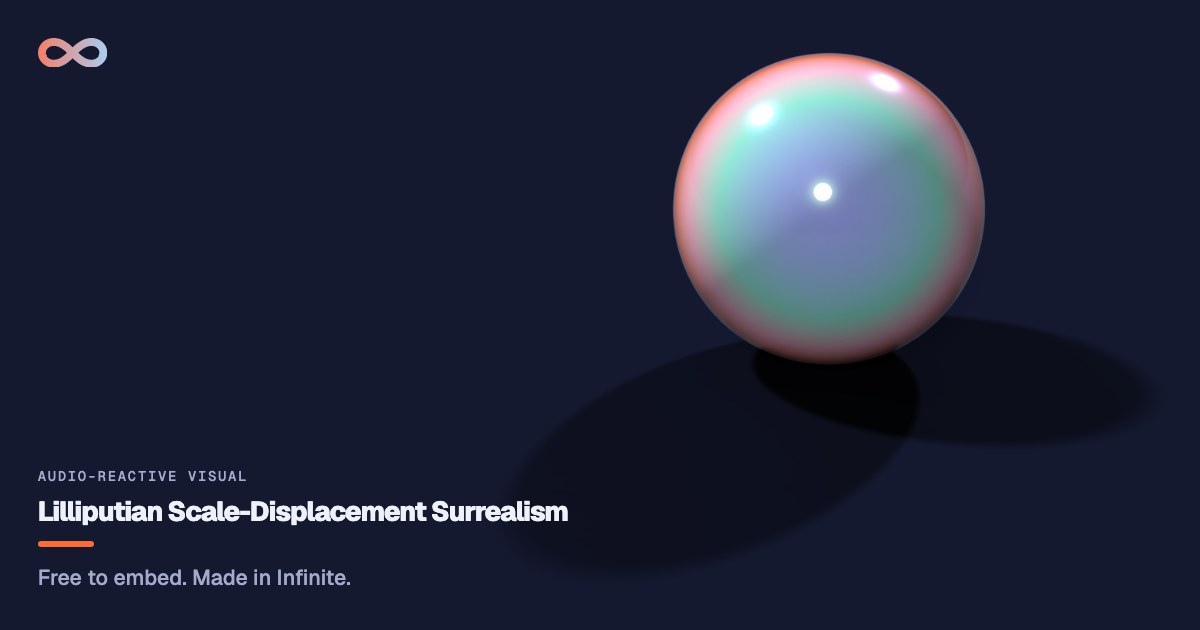
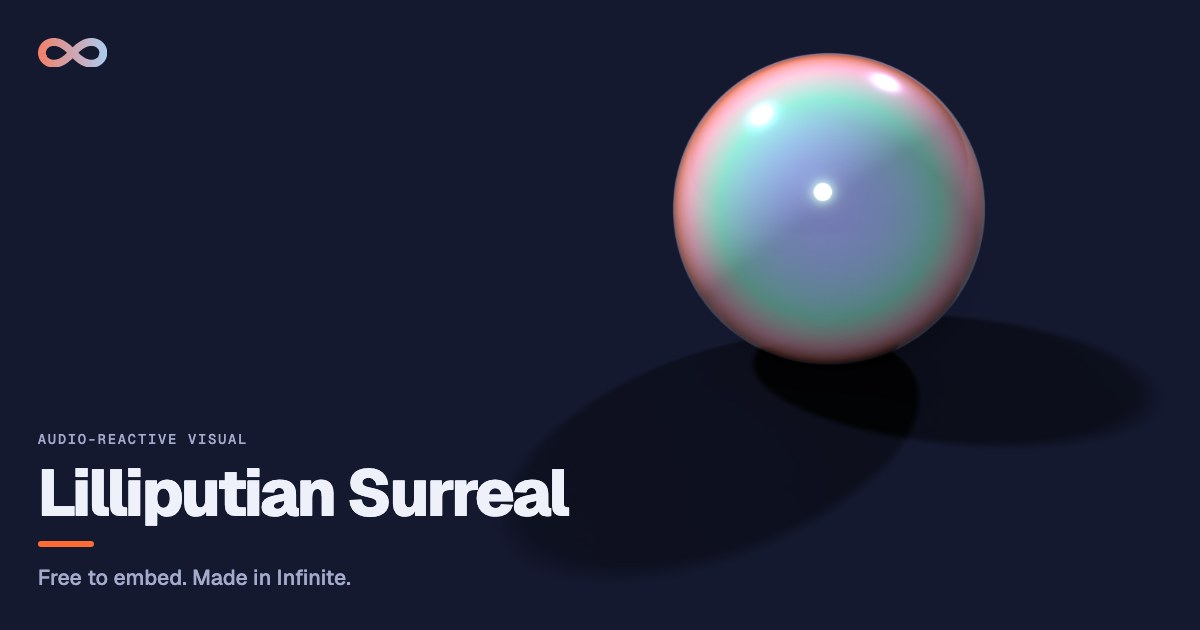
website: update og card previews for new embeds and pages

Changed region(s): [[0.0308, 0.6937, 0.4933, 0.8444]]

diff --git a/website/blog/index.html b/website/blog/index.html
@@ -18,14 +18,14 @@
   <link rel="canonical" href="https://infinitedevices.org/blog/">
   <meta property="og:title" content="Infinite blog: audio-reactive visuals, music and code">
   <meta property="og:description" content="Notes on building and using Infinite, the free open-source DAW for visuals, music and code on one canvas. Tutorials, engineering write-ups and ideas.">
-  <meta property="og:image" content="https://infinitedevices.org/assets/og-image.jpg">
+  <meta property="og:image" content="https://infinitedevices.org/assets/og/blog.jpg">
   <meta property="og:url" content="https://infinitedevices.org/blog/">
   <meta property="og:type" content="website">
   <meta property="og:site_name" content="Infinite">
   <meta name="twitter:card" content="summary_large_image">
   <meta name="twitter:title" content="Infinite blog: audio-reactive visuals, music and code">
   <meta name="twitter:description" content="Notes on building and using Infinite, the free open-source DAW for visuals, music and code on one canvas. Tutorials, engineering write-ups and ideas.">
-  <meta name="twitter:image" content="https://infinitedevices.org/assets/og-image.jpg">
+  <meta name="twitter:image" content="https://infinitedevices.org/assets/og/blog.jpg">
   <link rel="alternate" type="application/rss+xml" href="https://infinitedevices.org/blog/feed.xml" title="Infinite blog">
   <link rel="alternate" type="text/plain" href="../llms.txt" title="Plain-text summary for language models">
   <link rel="icon" href="../assets/favicon.svg" type="image/svg+xml">

diff --git a/website/embeds/cymatics-sine-harmonic-modal-interference.html b/website/embeds/cymatics-sine-harmonic-modal-interference.html
@@ -11,7 +11,7 @@
   <meta property="og:title" content="Cymatics Sine Harmonic Modal Interference: audio-reactive visual">
   <meta property="og:description" content="Audio-reactive circular modal cymatics visualizer. Bass drives radial Bessel diaphragm oscillation, mids modulate harmonic interference sectors, and highs...">
   <meta property="og:url" content="https://infinitedevices.org/embeds/cymatics-sine-harmonic-modal-interference.html">
-  <meta property="og:image" content="https://infinitedevices.org/assets/og-image.jpg">
+  <meta property="og:image" content="https://infinitedevices.org/assets/og/embed-cymatics-sine-harmonic-modal-interference.jpg">
   <meta name="twitter:card" content="summary_large_image">
   <script type="application/ld+json">{"@context": "https://schema.org", "@type": "CreativeWork", "name": "Cymatics Sine Harmonic Modal Interference", "description": "Audio-reactive circular modal cymatics visualizer. Bass drives radial Bessel diaphragm oscillation, mids modulate harmonic interference sectors, and highs...", "url": "https://infinitedevices.org/embeds/cymatics-sine-harmonic-modal-interference.html", "image": "https://infinitedevices.org/assets/og-image.jpg", "genre": "Audio-reactive visual", "isAccessibleForFree": true, "author": {"@type": "Person", "name": "Naman Soni"}, "isPartOf": {"@type": "CollectionPage", "name": "Infinite embeds", "url": "https://infinitedevices.org/embeds/"}}</script>
   <style>

diff --git a/website/embeds/minimal-signal-datamatics-barcode-matrix.html b/website/embeds/minimal-signal-datamatics-barcode-matrix.html
@@ -11,7 +11,7 @@
   <meta property="og:title" content="Minimal Signal Datamatics Barcode Matrix: audio-reactive visual">
   <meta property="og:description" content="Audio-reactive binary data matrix and barcode visualizer inspired by Ryoji Ikeda. Bass pulses the high-density bitstream, mids shift vertical scanlines, and...">
   <meta property="og:url" content="https://infinitedevices.org/embeds/minimal-signal-datamatics-barcode-matrix.html">
-  <meta property="og:image" content="https://infinitedevices.org/assets/og-image.jpg">
+  <meta property="og:image" content="https://infinitedevices.org/assets/og/embed-minimal-signal-datamatics-barcode-matrix.jpg">
   <meta name="twitter:card" content="summary_large_image">
   <script type="application/ld+json">{"@context": "https://schema.org", "@type": "CreativeWork", "name": "Minimal Signal Datamatics Barcode Matrix", "description": "Audio-reactive binary data matrix and barcode visualizer inspired by Ryoji Ikeda. Bass pulses the high-density bitstream, mids shift vertical scanlines, and...", "url": "https://infinitedevices.org/embeds/minimal-signal-datamatics-barcode-matrix.html", "image": "https://infinitedevices.org/assets/og-image.jpg", "genre": "Audio-reactive visual", "isAccessibleForFree": true, "author": {"@type": "Person", "name": "Naman Soni"}, "isPartOf": {"@type": "CollectionPage", "name": "Infinite embeds", "url": "https://infinitedevices.org/embeds/"}}</script>
   <style>

diff --git a/website/embeds/glitch-datamosh-chroma-displacement-scan.html b/website/embeds/glitch-datamosh-chroma-displacement-scan.html
@@ -11,7 +11,7 @@
   <meta property="og:title" content="Glitch Datamosh Chroma Displacement Scan: audio-reactive visual">
   <meta property="og:description" content="Audio-reactive datamosh visualizer with macroblock slicing and chromatic RGB channel splitting. Bass triggers horizontal buffer displacement, mids warp...">
   <meta property="og:url" content="https://infinitedevices.org/embeds/glitch-datamosh-chroma-displacement-scan.html">
-  <meta property="og:image" content="https://infinitedevices.org/assets/og-image.jpg">
+  <meta property="og:image" content="https://infinitedevices.org/assets/og/embed-glitch-datamosh-chroma-displacement-scan.jpg">
   <meta name="twitter:card" content="summary_large_image">
   <script type="application/ld+json">{"@context": "https://schema.org", "@type": "CreativeWork", "name": "Glitch Datamosh Chroma Displacement Scan", "description": "Audio-reactive datamosh visualizer with macroblock slicing and chromatic RGB channel splitting. Bass triggers horizontal buffer displacement, mids warp...", "url": "https://infinitedevices.org/embeds/glitch-datamosh-chroma-displacement-scan.html", "image": "https://infinitedevices.org/assets/og-image.jpg", "genre": "Audio-reactive visual", "isAccessibleForFree": true, "author": {"@type": "Person", "name": "Naman Soni"}, "isPartOf": {"@type": "CollectionPage", "name": "Infinite embeds", "url": "https://infinitedevices.org/embeds/"}}</script>
   <style>

diff --git a/website/embeds/cymatics-sine-chladni-plate-resonance.html b/website/embeds/cymatics-sine-chladni-plate-resonance.html
@@ -11,7 +11,7 @@
   <meta property="og:title" content="Cymatics Sine Chladni Plate Resonance: audio-reactive visual">
   <meta property="og:description" content="Audio-reactive Chladni plate cymatics visualizer. Bass shifts modal standing-wave frequencies, mids warp geometric nodal lines, and highs vibrate granular...">
   <meta property="og:url" content="https://infinitedevices.org/embeds/cymatics-sine-chladni-plate-resonance.html">
-  <meta property="og:image" content="https://infinitedevices.org/assets/og-image.jpg">
+  <meta property="og:image" content="https://infinitedevices.org/assets/og/embed-cymatics-sine-chladni-plate-resonance.jpg">
   <meta name="twitter:card" content="summary_large_image">
   <script type="application/ld+json">{"@context": "https://schema.org", "@type": "CreativeWork", "name": "Cymatics Sine Chladni Plate Resonance", "description": "Audio-reactive Chladni plate cymatics visualizer. Bass shifts modal standing-wave frequencies, mids warp geometric nodal lines, and highs vibrate granular...", "url": "https://infinitedevices.org/embeds/cymatics-sine-chladni-plate-resonance.html", "image": "https://infinitedevices.org/assets/og-image.jpg", "genre": "Audio-reactive visual", "isAccessibleForFree": true, "author": {"@type": "Person", "name": "Naman Soni"}, "isPartOf": {"@type": "CollectionPage", "name": "Infinite embeds", "url": "https://infinitedevices.org/embeds/"}}</script>
   <style>

diff --git a/website/embeds/minimal-signal-raster-oscillogram-sweep.html b/website/embeds/minimal-signal-raster-oscillogram-sweep.html
@@ -11,7 +11,7 @@
   <meta property="og:title" content="Minimal Signal Raster Oscillogram Sweep: audio-reactive visual">
   <meta property="og:description" content="Precision audio-reactive oscilloscope raster grid rendering multi-channel sine-sweep waveforms and Alva Noto pulse-code impulses. Bass drives beam...">
   <meta property="og:url" content="https://infinitedevices.org/embeds/minimal-signal-raster-oscillogram-sweep.html">
-  <meta property="og:image" content="https://infinitedevices.org/assets/og-image.jpg">
+  <meta property="og:image" content="https://infinitedevices.org/assets/og/embed-minimal-signal-raster-oscillogram-sweep.jpg">
   <meta name="twitter:card" content="summary_large_image">
   <script type="application/ld+json">{"@context": "https://schema.org", "@type": "CreativeWork", "name": "Minimal Signal Raster Oscillogram Sweep", "description": "Precision audio-reactive oscilloscope raster grid rendering multi-channel sine-sweep waveforms and Alva Noto pulse-code impulses. Bass drives beam...", "url": "https://infinitedevices.org/embeds/minimal-signal-raster-oscillogram-sweep.html", "image": "https://infinitedevices.org/assets/og-image.jpg", "genre": "Audio-reactive visual", "isAccessibleForFree": true, "author": {"@type": "Person", "name": "Naman Soni"}, "isPartOf": {"@type": "CollectionPage", "name": "Infinite embeds", "url": "https://infinitedevices.org/embeds/"}}</script>
   <style>

diff --git a/website/embeds/riso-manga-zine-halftone-dot-matrix.html b/website/embeds/riso-manga-zine-halftone-dot-matrix.html
@@ -11,7 +11,7 @@
   <meta property="og:title" content="Riso Manga Zine Halftone Dot Matrix: audio-reactive visual">
   <meta property="og:description" content="Interactive audio-reactive risograph print shader rendering screen halftone dot matrices in fluorescent spot inks. Bass pulses halftone dot scale and ink...">
   <meta property="og:url" content="https://infinitedevices.org/embeds/riso-manga-zine-halftone-dot-matrix.html">
-  <meta property="og:image" content="https://infinitedevices.org/assets/og-image.jpg">
+  <meta property="og:image" content="https://infinitedevices.org/assets/og/embed-riso-manga-zine-halftone-dot-matrix.jpg">
   <meta name="twitter:card" content="summary_large_image">
   <script type="application/ld+json">{"@context": "https://schema.org", "@type": "CreativeWork", "name": "Riso Manga Zine Halftone Dot Matrix", "description": "Interactive audio-reactive risograph print shader rendering screen halftone dot matrices in fluorescent spot inks. Bass pulses halftone dot scale and ink...", "url": "https://infinitedevices.org/embeds/riso-manga-zine-halftone-dot-matrix.html", "image": "https://infinitedevices.org/assets/og-image.jpg", "genre": "Audio-reactive visual", "isAccessibleForFree": true, "author": {"@type": "Person", "name": "Naman Soni"}, "isPartOf": {"@type": "CollectionPage", "name": "Infinite embeds", "url": "https://infinitedevices.org/embeds/"}}</script>
   <style>
